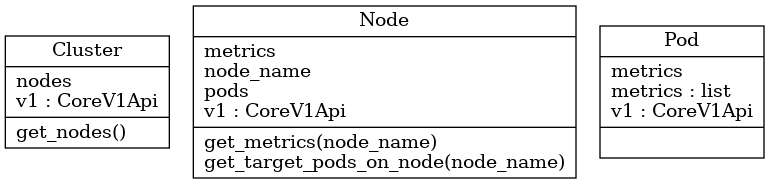
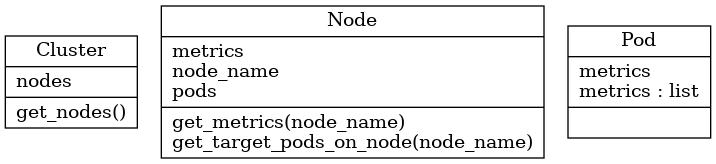
update

Changed region(s): [[0.0, 0.0, 1.0, 0.9756]]

diff --git a/dynamic_scheduler_core.py b/dynamic_scheduler_core.py
@@ -5,7 +5,6 @@ class Cluster:
 
   def __init__(self):
     config.load_kube_config()
-    self.v1 = client.CoreV1Api()
 
   @property
   def nodes(self):
@@ -13,7 +12,7 @@ class Cluster:
 
   def get_nodes(self):
     ready_nodes = []
-    for node in self.v1.list_node().items:
+    for node in client.CoreV1Api().list_node().items:
       last_condition = node.status.conditions[-1]     
       if last_condition.status == 'True' and last_condition.type == 'Ready' and last_condition.reason == 'KubeletReady':
         if 'node-role.kubernetes.io/master' not in node.metadata.labels:
@@ -31,7 +30,6 @@ class Node:
 
   def __init__(self, node_name):
     config.load_kube_config()
-    self.v1 = client.CoreV1Api()
     self.node_name = node_name
 
   @property
@@ -67,7 +65,7 @@ class Node:
     #field_selector = 'spec.nodeName='+bad_node['name']+','+'metadata.namespace=lab1'+','+'spec.schedulerName='+scheduler_name
     #field_selector = f'spec.nodeName={node_name},spec.schedulerName={scheduler_name}'
     field_selector = f'spec.nodeName={node_name}'
-    pods_list = self.v1.list_pod_for_all_namespaces(watch=False, field_selector=field_selector)
+    pods_list = client.CoreV1Api().list_pod_for_all_namespaces(watch=False, field_selector=field_selector)
     for item in pods_list.items:
       pod = {
         'name': item.metadata.name,
@@ -80,9 +78,8 @@ class Pod:
 
   def __init__(self):
     config.load_kube_config()
-    self.v1 = client.CoreV1Api()
     self.metrics = []
 
   @property
   def metrics(self):
-    return []#
+    return []
